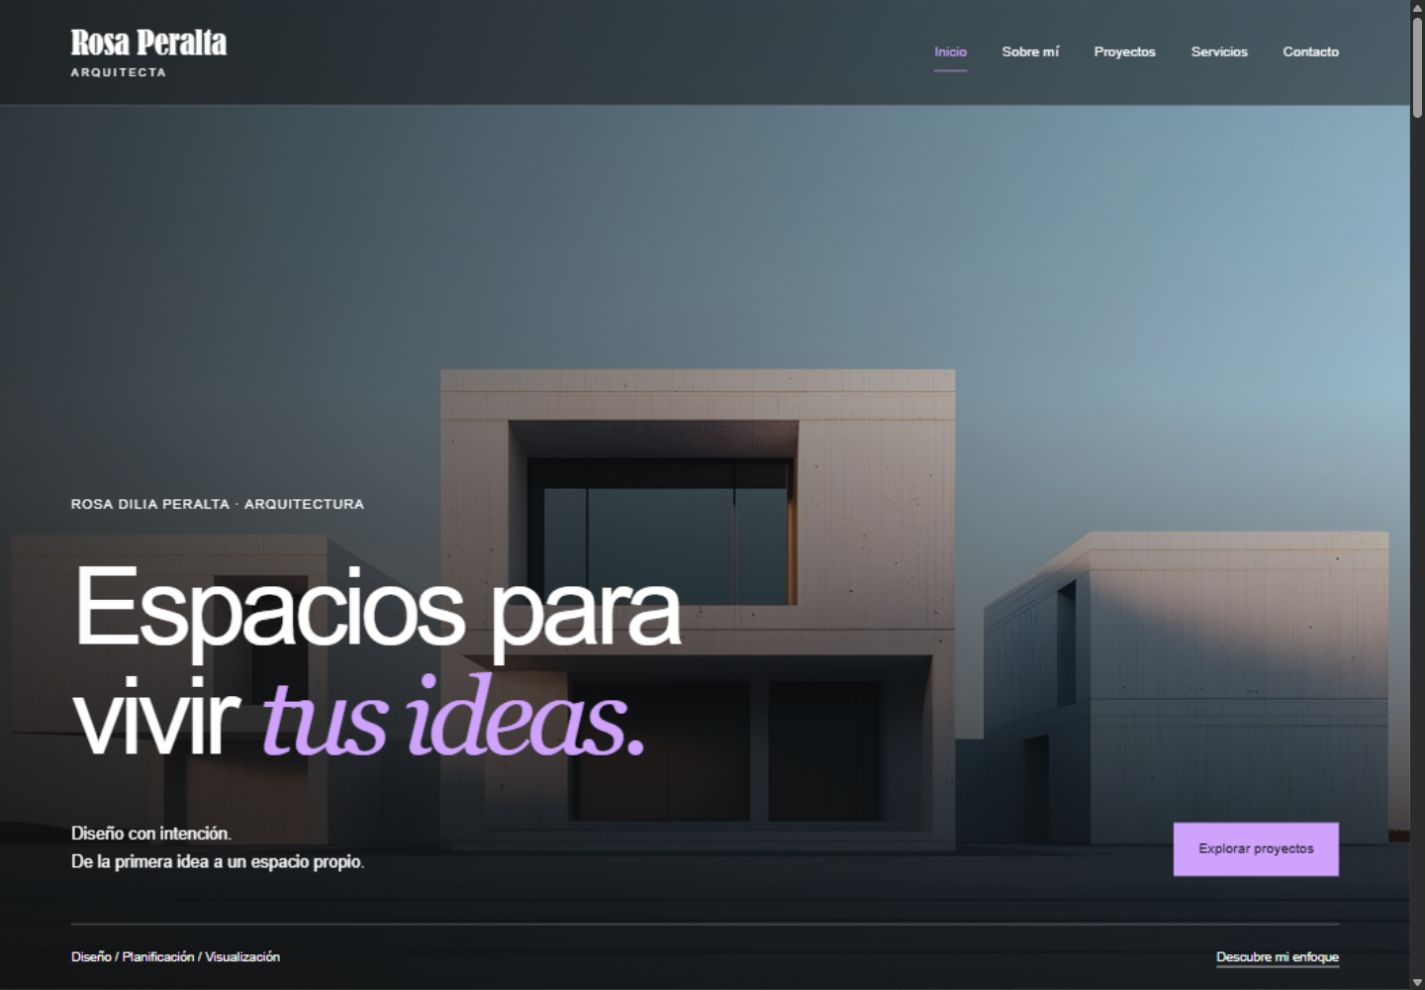
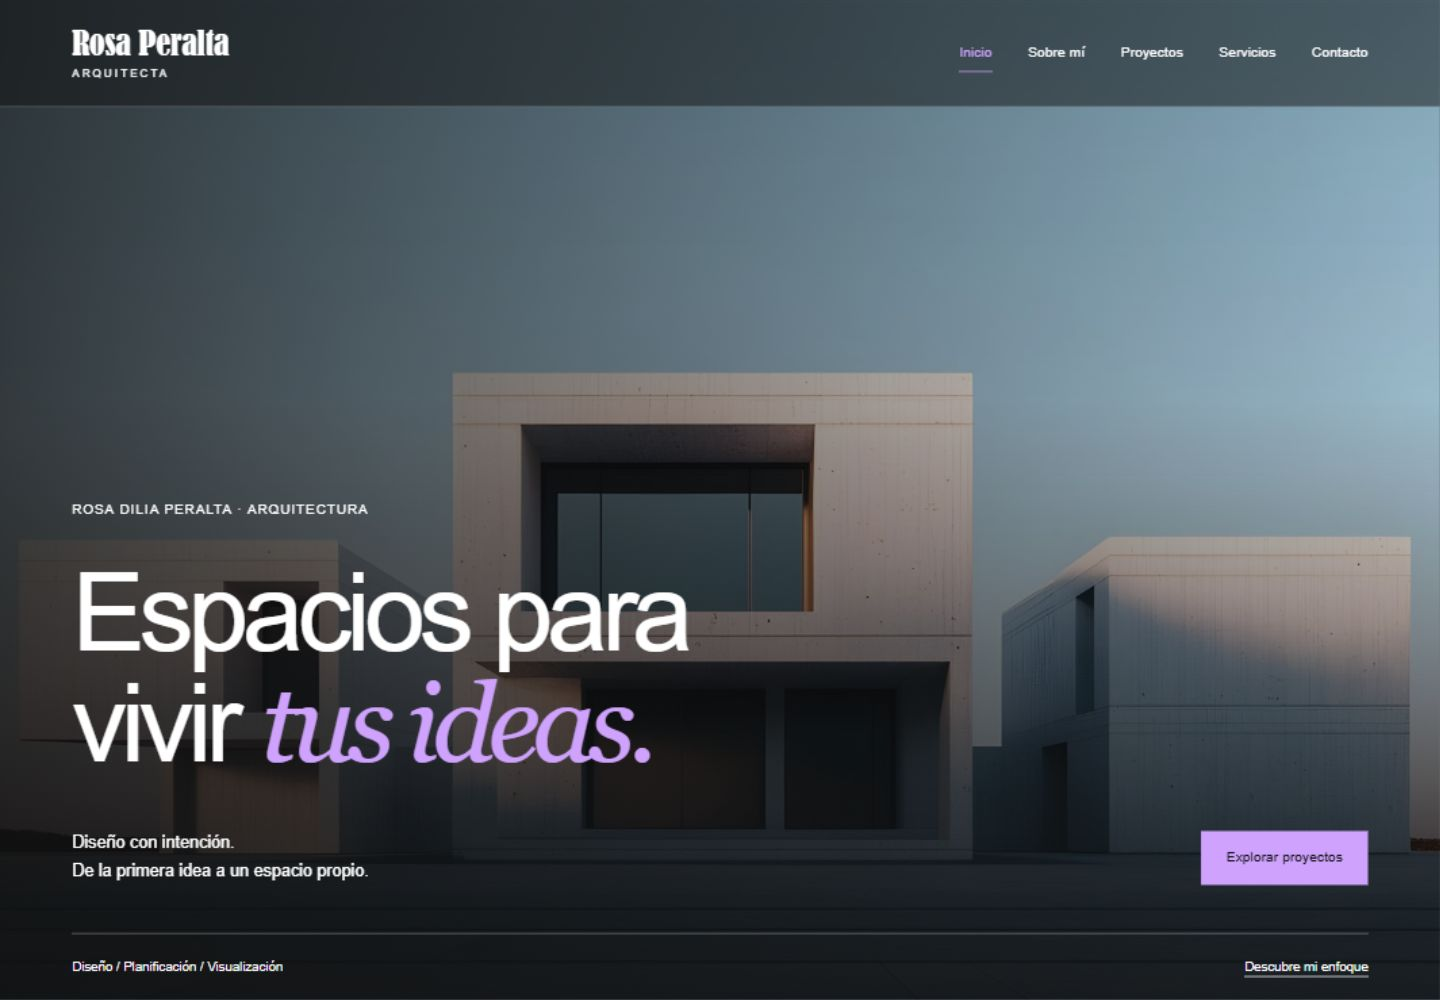
Refine project layouts and document audit
Preserve project image proportions, improve sheet-style layouts, and prevent dynamically loaded projects from inheriting visual variants. Add Phase 1.1 audit findings, responsive evidence, and updated screenshots.

diff --git a/index.html b/index.html
@@ -54,7 +54,7 @@
       <div class="section-heading"><h2 id="portfolio-title" class="display">Ideas que<br><em>toman forma.</em></h2><p>Una selección de proyectos, modelos<br>y exploraciones de visualización 3D.</p></div>
       <div id="portfolio-container" class="project-list">
         <article class="project project--compact reveal" id="project-1" data-source-category="Revit">
-          <a class="project-cover" href="img/portfolio/ResidenciaVacacionalCabrera1.png" data-gallery data-caption="Residencia Vacacional Cabrera · Vista 1" aria-label="Ver galería de Residencia Vacacional Cabrera"><img src="img/optimized/project-1.jpg" width="409" height="285" alt="Residencia Vacacional Cabrera, vista arquitectónica" loading="lazy" decoding="async"><span>Ver galería · 4 imágenes</span></a>
+          <a class="project-cover" href="img/portfolio/ResidenciaVacacionalCabrera1.png" data-gallery data-caption="Residencia Vacacional Cabrera · Vista 1" aria-label="Ver galería de Residencia Vacacional Cabrera"><img src="img/optimized/project-1.jpg" style="--image-ratio: 409 / 285" width="409" height="285" alt="Residencia Vacacional Cabrera, vista arquitectónica" loading="lazy" decoding="async"><span>Ver galería · 4 imágenes</span></a>
           <div class="project-info"><div><h3>Residencia Vacacional Cabrera</h3><p>Revit</p></div><span>Modelado / Visualización</span></div>
           <p class="project-description">Modelado en Revit de una residencia vacacional. Vistas exteriores para explorar la vivienda, sus terrazas y espacios abiertos.</p>
           <div class="project-views" aria-label="Vistas de Residencia Vacacional Cabrera"><a href="img/portfolio/ResidenciaVacacionalCabrera1.png" data-gallery data-caption="Residencia Vacacional Cabrera · Vista 1">Vista 1</a>
@@ -80,7 +80,7 @@
           <a href="img/portfolio/ApartaEstudiosSanIsidro3.jpeg" data-gallery data-caption="Apartamento San Isidro · Vista 3">Vista 3</a></div>
         </article>
         <article class="project project--sheet reveal" id="project-4" data-source-category="proyectos">
-          <a class="project-cover" href="img/portfolio/Modelado3dRestaurante1.png" data-gallery data-caption="Modelado 3D Restaurante · Vista 1" aria-label="Ver galería de Modelado 3D Restaurante"><img src="img/optimized/project-4.jpg" width="665" height="750" alt="Modelado 3D Restaurante, vista arquitectónica" loading="lazy" decoding="async"><span>Ver galería · 1 imagen</span></a>
+          <a class="project-cover" href="img/portfolio/Modelado3dRestaurante1.png" data-gallery data-caption="Modelado 3D Restaurante · Vista 1" aria-label="Ver galería de Modelado 3D Restaurante"><img src="img/optimized/project-4.jpg" style="--image-ratio: 665 / 750" width="665" height="750" alt="Modelado 3D Restaurante, vista arquitectónica" loading="lazy" decoding="async"><span>Ver galería · 1 imagen</span></a>
           <div class="project-info"><div><h3>Modelado 3D Restaurante</h3><p>Modelado 3D</p></div><span>Modelado / Visualización</span></div>
           <p class="project-description">Modelado de un espacio de restauración. Una aproximación a su distribución, mobiliario e iluminación interior.</p>
           <div class="project-views" aria-label="Vistas de Modelado 3D Restaurante"><a href="img/portfolio/Modelado3dRestaurante1.png" data-gallery data-caption="Modelado 3D Restaurante · Vista 1">Vista 1</a></div>
@@ -93,7 +93,7 @@
           <a href="img/portfolio/Modelogenerico3DWarehouse2.jpg" data-gallery data-caption="Modelo 3D Warehouse · Vista 2">Vista 2</a></div>
         </article>
         <article class="project project--sheet reveal" id="project-6" data-source-category="proyectos">
-          <a class="project-cover" href="img/portfolio/MasterBIM1.jpeg" data-gallery data-caption="Master BIM Expert · Vista 1" aria-label="Ver galería de Master BIM Expert"><img src="img/optimized/project-6.jpg" width="1206" height="894" alt="Master BIM Expert, vista arquitectónica" loading="lazy" decoding="async"><span>Ver galería · 1 imagen</span></a>
+          <a class="project-cover" href="img/portfolio/MasterBIM1.jpeg" data-gallery data-caption="Master BIM Expert · Vista 1" aria-label="Ver galería de Master BIM Expert"><img src="img/optimized/project-6.jpg" style="--image-ratio: 1206 / 894" width="1206" height="894" alt="Master BIM Expert, vista arquitectónica" loading="lazy" decoding="async"><span>Ver galería · 1 imagen</span></a>
           <div class="project-info"><div><h3>Master BIM Expert</h3><p>Modelado BIM</p></div><span>Modelado / Visualización</span></div>
           <p class="project-description">Lámina de modelado BIM con vistas del conjunto, representación espacial y desarrollo del modelo.</p>
           <div class="project-views" aria-label="Vistas de Master BIM Expert"><a href="img/portfolio/MasterBIM1.jpeg" data-gallery data-caption="Master BIM Expert · Vista 1">Vista 1</a></div>

diff --git a/css/style.css b/css/style.css
@@ -397,7 +397,7 @@ figcaption {
 }
 .project.project--compact .project-cover img,
 .project.project--sheet .project-cover img {
-  aspect-ratio: auto;
+  aspect-ratio: var(--image-ratio, 1.4);
   object-fit: contain;
 }
 .project--compact .project-info {
@@ -408,6 +408,25 @@ figcaption {
 .project--compact .project-description,
 .project--compact .project-views {
   grid-column: 1;
+}
+.project.project--sheet {
+  grid-column: 1 / -1;
+  display: grid;
+  grid-template-columns: 1fr 1fr;
+  column-gap: 8%;
+  align-items: center;
+}
+.project--sheet .project-cover {
+  grid-column: 1;
+  grid-row: 1 / 4;
+}
+.project--sheet .project-info {
+  flex-direction: column;
+}
+.project--sheet .project-info,
+.project--sheet .project-description,
+.project--sheet .project-views {
+  grid-column: 2;
 }
 .project-cover:hover img {
   transform: scale(1.025);
@@ -808,7 +827,8 @@ dialog figcaption {
     grid-column: auto;
     margin-top: 0;
   }
-  .project.project--compact {
+  .project.project--compact,
+  .project.project--sheet {
     display: block;
     padding-top: 0;
     border-top: 0;
@@ -818,7 +838,7 @@ dialog figcaption {
   }
   .project.project--compact .project-cover img,
   .project.project--sheet .project-cover img {
-    aspect-ratio: auto;
+    aspect-ratio: var(--image-ratio, 1.4);
   }
   .project-info h3 {
     font-size: 1.8rem;

diff --git a/js/portfolio.js b/js/portfolio.js
@@ -112,7 +112,9 @@ async function refreshPortfolio() {
       const image = cover.querySelector('img');
       image.alt = `${title}, vista arquitectónica`;
       if (!unchangedCover) {
+        project.classList.remove('project--compact', 'project--sheet');
         image.src = imagePath;
+        image.style.removeProperty('--image-ratio');
         image.removeAttribute('width');
         image.removeAttribute('height');
       }
